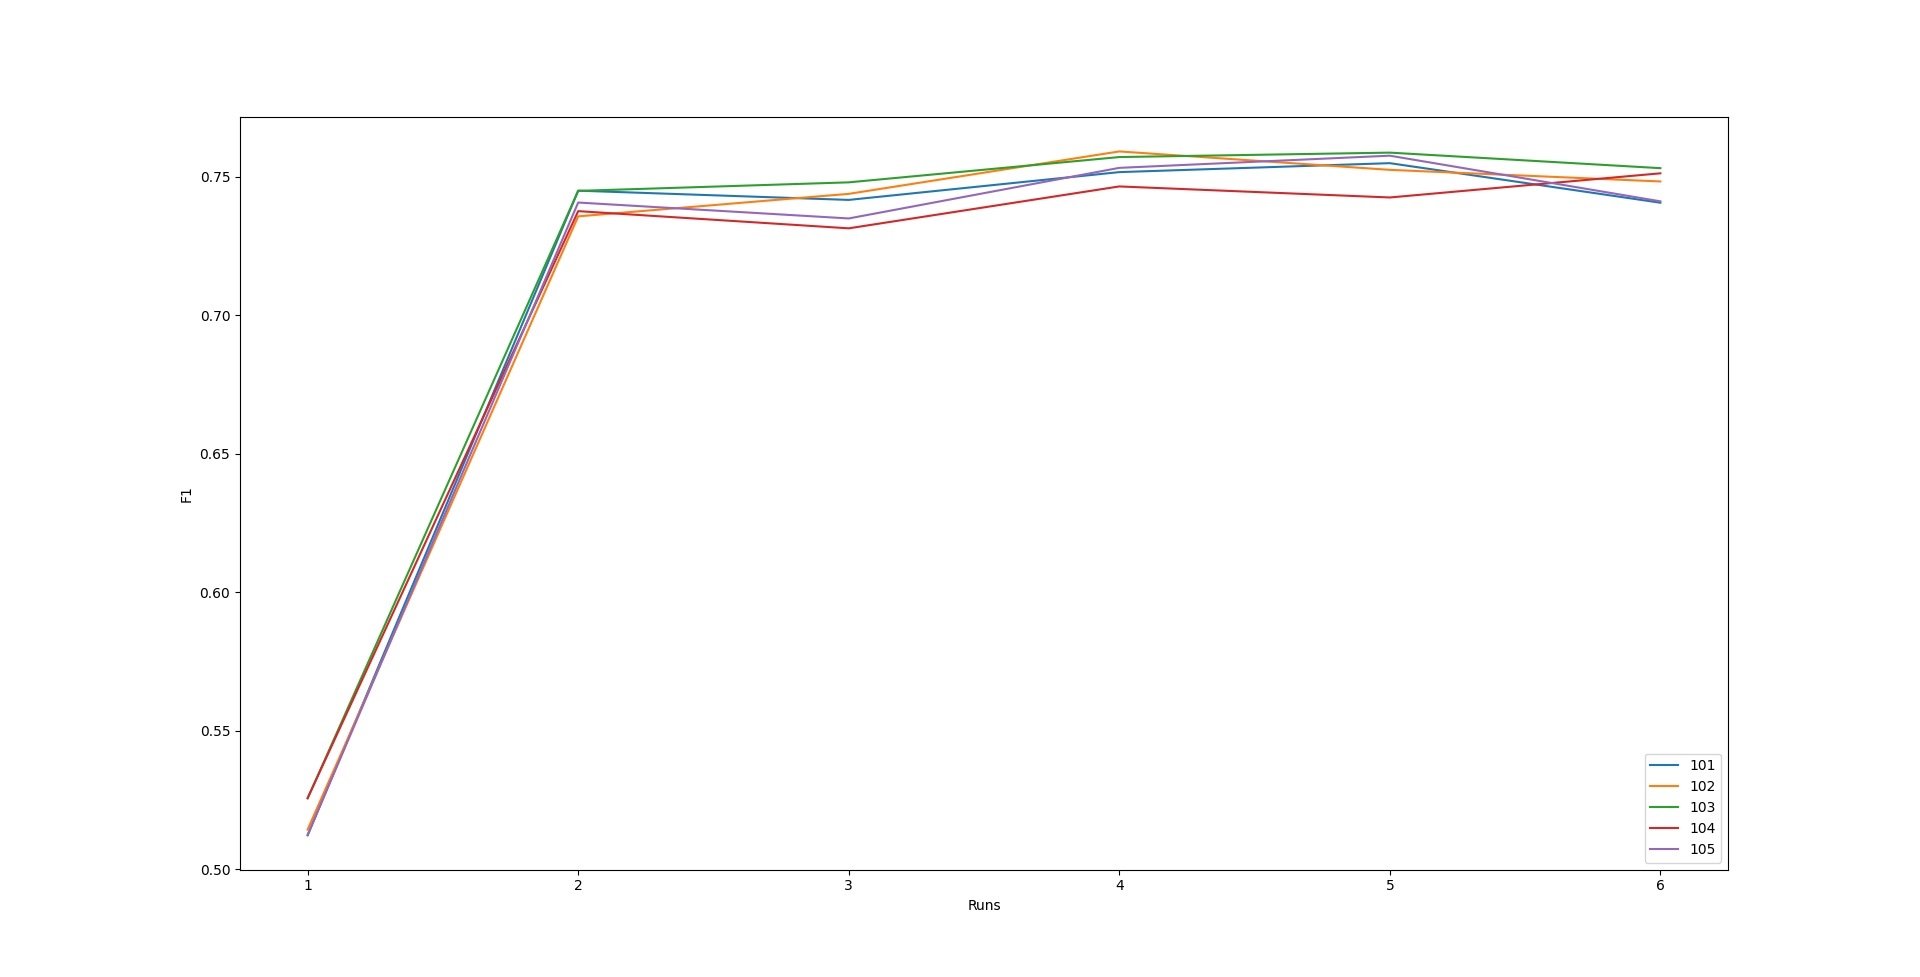
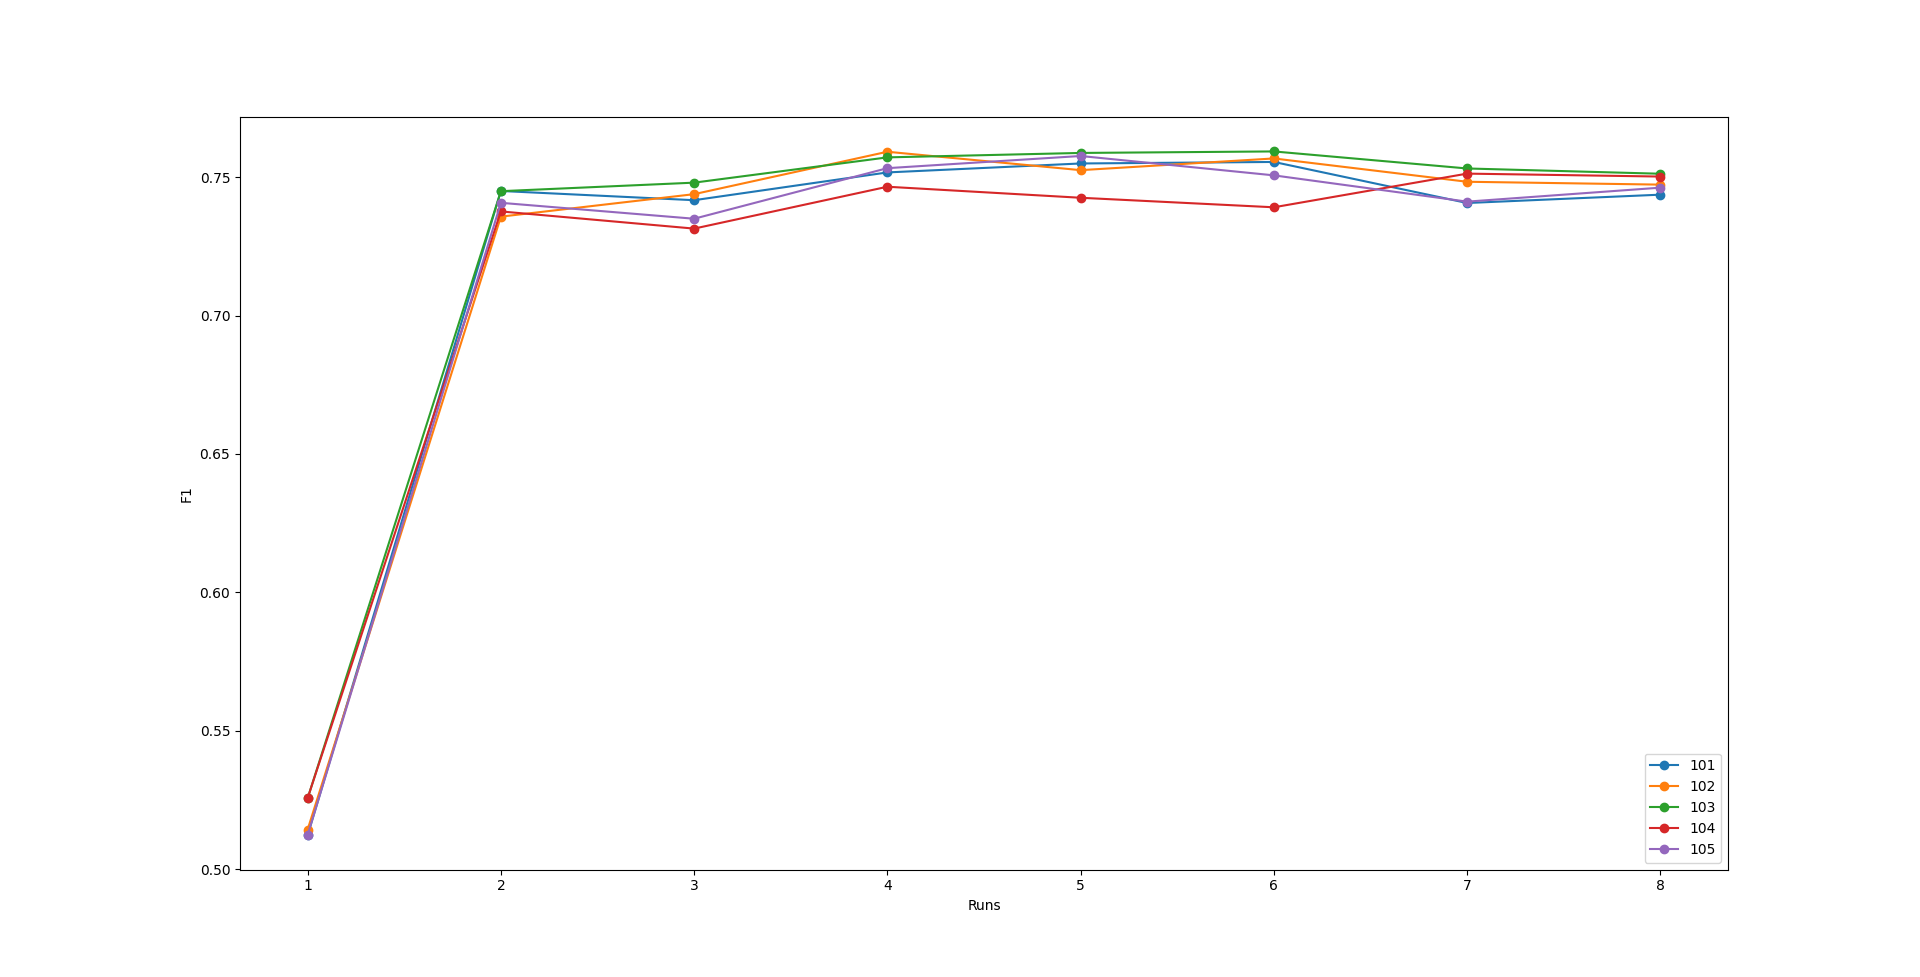
Added results

Changed region(s): [[0.1562, 0.1535, 0.875, 0.8598]]

diff --git a/end2end.py b/end2end.py
@@ -68,11 +68,6 @@ class End2End:
         # Save current learning method to model's directory
         utils.save_current_learning_method(save_path=self.run_path)
 
-        # Print model's trainable parameters # and save model's summary to file
-        self._log(f"Model's trainable parameters: {sum(p.numel() for p in model.parameters() if p.requires_grad)}")
-        self.set_dec_gradient_multiplier(model, 0.0)
-        print(summary(model, input_size=torch.Size([self.cfg.BATCH_SIZE, self.cfg.INPUT_CHANNELS, self.cfg.INPUT_HEIGHT, self.cfg.INPUT_WIDTH]), verbose=0), file=open(os.path.join(self.run_path, "model_summary.txt"), 'w', encoding="utf-8"))
-
         train_start = timer()
         losses, validation_data, best_model_metrics, validation_metrics, lrs, difficulty_score_dict = self._train_model(device, model, train_loader, loss_seg, loss_dec, optimizer, scheduler, validation_loader, tensorboard_writer)
         end = timer()
@@ -87,6 +82,10 @@ class End2End:
         self.eval(model=model, device=device, save_images=self.cfg.SAVE_IMAGES, plot_seg=False, reload_final=False, best_model_metrics=best_model_metrics)
 
         self._save_params()
+
+        # Print model's trainable parameters # and save model's summary to file
+        self._log(f"Model's trainable parameters: {sum(p.numel() for p in model.parameters() if p.requires_grad)}")
+        print(summary(model, input_size=torch.Size([self.cfg.BATCH_SIZE, self.cfg.INPUT_CHANNELS, self.cfg.INPUT_HEIGHT, self.cfg.INPUT_WIDTH]), verbose=0), file=open(os.path.join(self.run_path, "model_summary.txt"), 'w', encoding="utf-8"))
 
     def eval(self, model, device, save_images, plot_seg, reload_final, eval_loader=None, best_model_metrics=None):
         self.reload_model(model, reload_final)
@@ -398,6 +397,7 @@ class End2End:
                         seg_pred_bin = (np.array(predicted_segs[i])>two_pxl_threshold).astype(np.uint8)
                         if seg_pred_bin.max() == 0:
                             adjusted_thresholds[i] *= self.cfg.THR_ADJUSTMENT
+                            adjusted_thresholds_counter += 1
                 self._log(f"Adjusted thresholds: {adjusted_thresholds_counter}")
 
             # Segmentation metrics + vizualizacija

diff --git a/results/crack_segmentation/CRACK500/testiranje/README.md b/results/crack_segmentation/CRACK500/testiranje/README.md
@@ -8,45 +8,49 @@
 
 ### 1
 
-| Vrsta                | Seed      | Precision | Recall   | F1       | TP   | FP   | FN   | TN   |
-| ---------------------| ----------| ----------| ---------|----------|------|------|------|------|
-| Baseline arhitektura | 101       | 0.486262  | 0.654428 | 0.512197 | 1124 | 0    | 0    | 0    |
-| Baseline arhitektura | 102       | 0.498529  | 0.647927 | 0.514284 | 1122 | 0    | 2    | 0    |
-| Baseline arhitektura | 103       | 0.509030  | 0.660297 | 0.525565 | 1121 | 0    | 3    | 0    |
-| Baseline arhitektura | 104       | 0.507850  | 0.675373 | 0.525646 | 1124 | 0    | 0    | 0    |
-| Baseline arhitektura | 105       | 0.494937  | 0.640649 | 0.512375 | 1124 | 0    | 0    | 0    |
+| Vrsta                | Seed | Precision | Recall   | F1       | TP   | FP   | FN   | TN   |
+| ---------------------| -----| ----------| ---------|----------|------|------|------|------|
+| Baseline arhitektura | 101  | 0.486262  | 0.654428 | 0.512197 | 1124 | 0    | 0    | 0    |
+| Baseline arhitektura | 102  | 0.498529  | 0.647927 | 0.514284 | 1122 | 0    | 2    | 0    |
+| Baseline arhitektura | 103  | 0.509030  | 0.660297 | 0.525565 | 1121 | 0    | 3    | 0    |
+| Baseline arhitektura | 104  | 0.507850  | 0.675373 | 0.525646 | 1124 | 0    | 0    | 0    |
+| Baseline arhitektura | 105  | 0.494937  | 0.640649 | 0.512375 | 1124 | 0    | 0    | 0    |
 
 ### 2
 
-| Vrsta                    | Seed      | Precision | Recall   | F1       |
-| -------------------------| ----------| ----------| ---------|----------|
-| U-net brez klasifikacije | 101       | 0.731009  | 0.808847 | 0.745036 |
-| U-net brez klasifikacije | 102       | 0.721785  | 0.807461 | 0.735761 |
-| U-net brez klasifikacije | 103       | 0.734547  | 0.800624 | 0.744958 |
-| U-net brez klasifikacije | 104       | 0.736951  | 0.786890 | 0.737642 |
-| U-net brez klasifikacije | 105       | 0.749422  | 0.774335 | 0.740753 |
+| Vrsta                    | Seed  | Precision | Recall   | F1       |
+| -------------------------| ------| ----------| ---------|----------|
+| U-net brez klasifikacije | 101   | 0.731009  | 0.808847 | 0.745036 |
+| U-net brez klasifikacije | 102   | 0.721785  | 0.807461 | 0.735761 |
+| U-net brez klasifikacije | 103   | 0.734547  | 0.800624 | 0.744958 |
+| U-net brez klasifikacije | 104   | 0.736951  | 0.786890 | 0.737642 |
+| U-net brez klasifikacije | 105   | 0.749422  | 0.774335 | 0.740753 |
 
 ### 3
 
-| Vrsta                             | Seed      | Precision | Recall   | F1       | TP   | FP   | FN   | TN   |
-| ----------------------------------| ----------| ----------| ---------|----------|------|------|------|------|
-| Baseline arhitektura + upsampling | 101       | 0.738081  | 0.791008 | 0.741700 | 0    | 0    | 1124 | 0    |
-| Baseline arhitektura + upsampling | 102       | 0.731677  | 0.798433 | 0.743884 | 0    | 0    | 1124 | 0    |
-| Baseline arhitektura + upsampling | 103       | 0.741123  | 0.792890 | 0.748042 | 1124 | 0    | 0    | 0    |
-| Baseline arhitektura + upsampling | 104       | 0.715996  | 0.803378 | 0.731436 | 0    | 0    | 1124 | 0    |
-| Baseline arhitektura + upsampling | 105       | 0.714322  | 0.811605 | 0.735004 | 1124 | 0    | 0    | 0    |
+| Vrsta                                     | Seed | Precision | Recall   | F1       | TP   | FP   | FN   | TN   |
+| ------------------------------------------| -----| ----------| ---------|----------|------|------|------|------|
+| Baseline arhitektura + upsampling         | 101  | 0.738081  | 0.791008 | 0.741700 | 0    | 0    | 1124 | 0    |
+| Baseline arhitektura + upsampling         | 102  | 0.731677  | 0.798433 | 0.743884 | 0    | 0    | 1124 | 0    |
+| Baseline arhitektura + upsampling         | 103  | 0.741123  | 0.792890 | 0.748042 | 1124 | 0    | 0    | 0    |
+| Baseline arhitektura + upsampling + bce_w | 103  | 0.734554  | 0.809111 | 0.750412 | 1124 | 0    | 0    | 0    |
+| Baseline arhitektura + upsampling         | 104  | 0.715996  | 0.803378 | 0.731436 | 0    | 0    | 1124 | 0    |
+| Baseline arhitektura + upsampling + bce_w | 104  | 0.748207  | 0.793619 | 0.749610 | 1124 | 0    | 0    | 0    |
+| Baseline arhitektura + upsampling         | 105  | 0.714322  | 0.811605 | 0.735004 | 1124 | 0    | 0    | 0    |
+| Baseline arhitektura + upsampling + bce_w | 105  | 0.748435  | 0.786258 | 0.746841 | 1123 | 0    | 1    | 0    |
 
 ### 4
 
-| Vrsta                             | Seed | Negativni | Precision | Recall   | F1       | TP   | FP   | FN   | TN   |
-| ----------------------------------| -----| ----------| ----------| ---------|----------|------|------|------|------|
-| Augmentacija + negativni primeri  | 101  | 572       | 0.742209  | 0.803828 | 0.751737 | 1123 | 0    | 1    | 0    |
-| Augmentacija + negativni primeri  | 102  | 572       | 0.764785  | 0.791479 | 0.759207 | 1119 | 0    | 5    | 0    |
-| Augmentacija + negativni primeri  | 103  | 572       | 0.753666  | 0.806727 | 0.757174 | 1118 | 0    | 6    | 0    |
-| Augmentacija + negativni primeri  | 104  | 572       | 0.746313  | 0.797371 | 0.746565 | 1124 | 0    | 0    | 0    |
-| Augmentacija + negativni primeri  | 105  | 572       | 0.751214  | 0.795359 | 0.753275 | 1120 | 0    | 4    | 0    |
-| Augmentacija + negativni primeri  | 105  | 759       | 0.749918  | 0.800570 | 0.754876 | 1121 | 0    | 3    | 0    |
-| Augmentacija + negativni primeri  | 105  | 759       | 0.753656  | 0.799729 | 0.755622 | 1116 | 0    | 8    | 0    |
+| Vrsta                                     | Seed | Negativni | Precision | Recall   | F1       | TP   | FP   | FN   | TN   |
+| ------------------------------------------| -----| ----------| ----------| ---------|----------|------|------|------|------|
+| Augmentacija + negativni primeri          | 101  | 572       | 0.742209  | 0.803828 | 0.751737 | 1123 | 0    | 1    | 0    |
+| Augmentacija + negativni primeri          | 102  | 572       | 0.764785  | 0.791479 | 0.759207 | 1119 | 0    | 5    | 0    |
+| Augmentacija + negativni primeri          | 103  | 572       | 0.753666  | 0.806727 | 0.757174 | 1118 | 0    | 6    | 0    |
+| Augmentacija + negativni primeri          | 104  | 572       | 0.746313  | 0.797371 | 0.746565 | 1124 | 0    | 0    | 0    |
+| Augmentacija + negativni primeri          | 105  | 572       | 0.751214  | 0.795359 | 0.753275 | 1120 | 0    | 4    | 0    |
+| Augmentacija + negativni primeri          | 105  | 759       | 0.749918  | 0.800570 | 0.754876 | 1121 | 0    | 3    | 0    |
+| Augmentacija + negativni primeri          | 105  | 759       | 0.753656  | 0.799729 | 0.755622 | 1116 | 0    | 8    | 0    |
+| Augmentacija + negativni primeri + bce_w  | 105  | 572       | 0.743948  | 0.801724 | 0.747799 | 1124 | 0    | 0    | 0    |
 
 ### 5
 
@@ -60,6 +64,16 @@
 
 ### 6
 
+| Vrsta                                         | Seed | Negativni | Thr adjustment | Precision | Recall   | F1       | TP   | FP   | FN   | TN   |
+| ----------------------------------------------| -----| ----------| ---------------| ----------| ---------|----------|------|------|------|------|
+| Augmentacija + negativni primeri + thresholds | 101  | 572       | 0.9            | 0.745089  | 0.807269 | 0.755520 | 1123 | 0    | 1    | 0    |
+| Augmentacija + negativni primeri + thresholds | 102  | 572       | 0.9            | 0.756101  | 0.797340 | 0.756788 | 1121 | 0    | 3    | 0    |
+| Augmentacija + negativni primeri + thresholds | 103  | 572       | 0.9            | 0.746851  | 0.810843 | 0.759321 | 1124 | 0    | 0    | 0    |
+| Augmentacija + negativni primeri + thresholds | 104  | 572       | 0.9            | 0.740026  | 0.790492 | 0.739139 | 1123 | 0    | 1    | 0    |
+| Augmentacija + negativni primeri + thresholds | 105  | 572       | 0.9            | 0.727181  | 0.823630 | 0.750677 | 1121 | 0    | 3    | 0    |
+
+### 7
+
 | Vrsta                                          | Seed      | Negativni | Precision | Recall   | F1       | TP   | FP   | FN   | TN   |
 | -----------------------------------------------| ----------| ----------| ----------| ---------|----------|------|------|------|------|
 | Augmentacija + negativni primeri + neg mining  | 101       | 572       | 0.734208  | 0.794404 | 0.740687 | 1116 | 0    | 8    | 0    |
@@ -67,5 +81,16 @@
 | Augmentacija + negativni primeri + neg mining  | 103       | 572       | 0.739416  | 0.810507 | 0.753165 | 1122 | 0    | 2    | 0    |
 | Augmentacija + negativni primeri + neg mining  | 104       | 572       | 0.740360  | 0.805876 | 0.751304 | 1123 | 0    | 1    | 0    |
 | Augmentacija + negativni primeri + neg mining  | 105       | 572       | 0.738865  | 0.790862 | 0.741181 | 1120 | 0    | 4    | 0    |
+
+### 8
+
+| Vrsta                                                    | Seed | Negativni | Precision | Recall   | F1       | TP   | FP   | FN   | TN   |
+| ---------------------------------------------------------| -----| ----------| ----------| ---------|----------|------|------|------|------|
+| Augmentacija + negativni primeri + črnenje + neg mining  | 101  | 572       | 0.730899  | 0.799624 | 0.743699 | 1123 | 0    | 1    | 0    |
+| Augmentacija + negativni primeri + črnenje + neg mining  | 102  | 572       | 0.744423  | 0.787611 | 0.747328 | 1120 | 0    | 4    | 0    |
+| Augmentacija + negativni primeri + črnenje + neg mining  | 103  | 572       | 0.754397  | 0.786419 | 0.751260 | 1121 | 0    | 3    | 0    |
+| Augmentacija + negativni primeri + črnenje + neg mining  | 104  | 572       | 0.750366  | 0.792788 | 0.750243 | 1121 | 0    | 3    | 0    |
+| Augmentacija + negativni primeri + črnenje + neg mining  | 105  | 572       | 0.731879  | 0.805741 | 0.746229 | 1122 | 0    | 2    | 0    |
+
 
 ![Runs](./seed_runs.png) 
